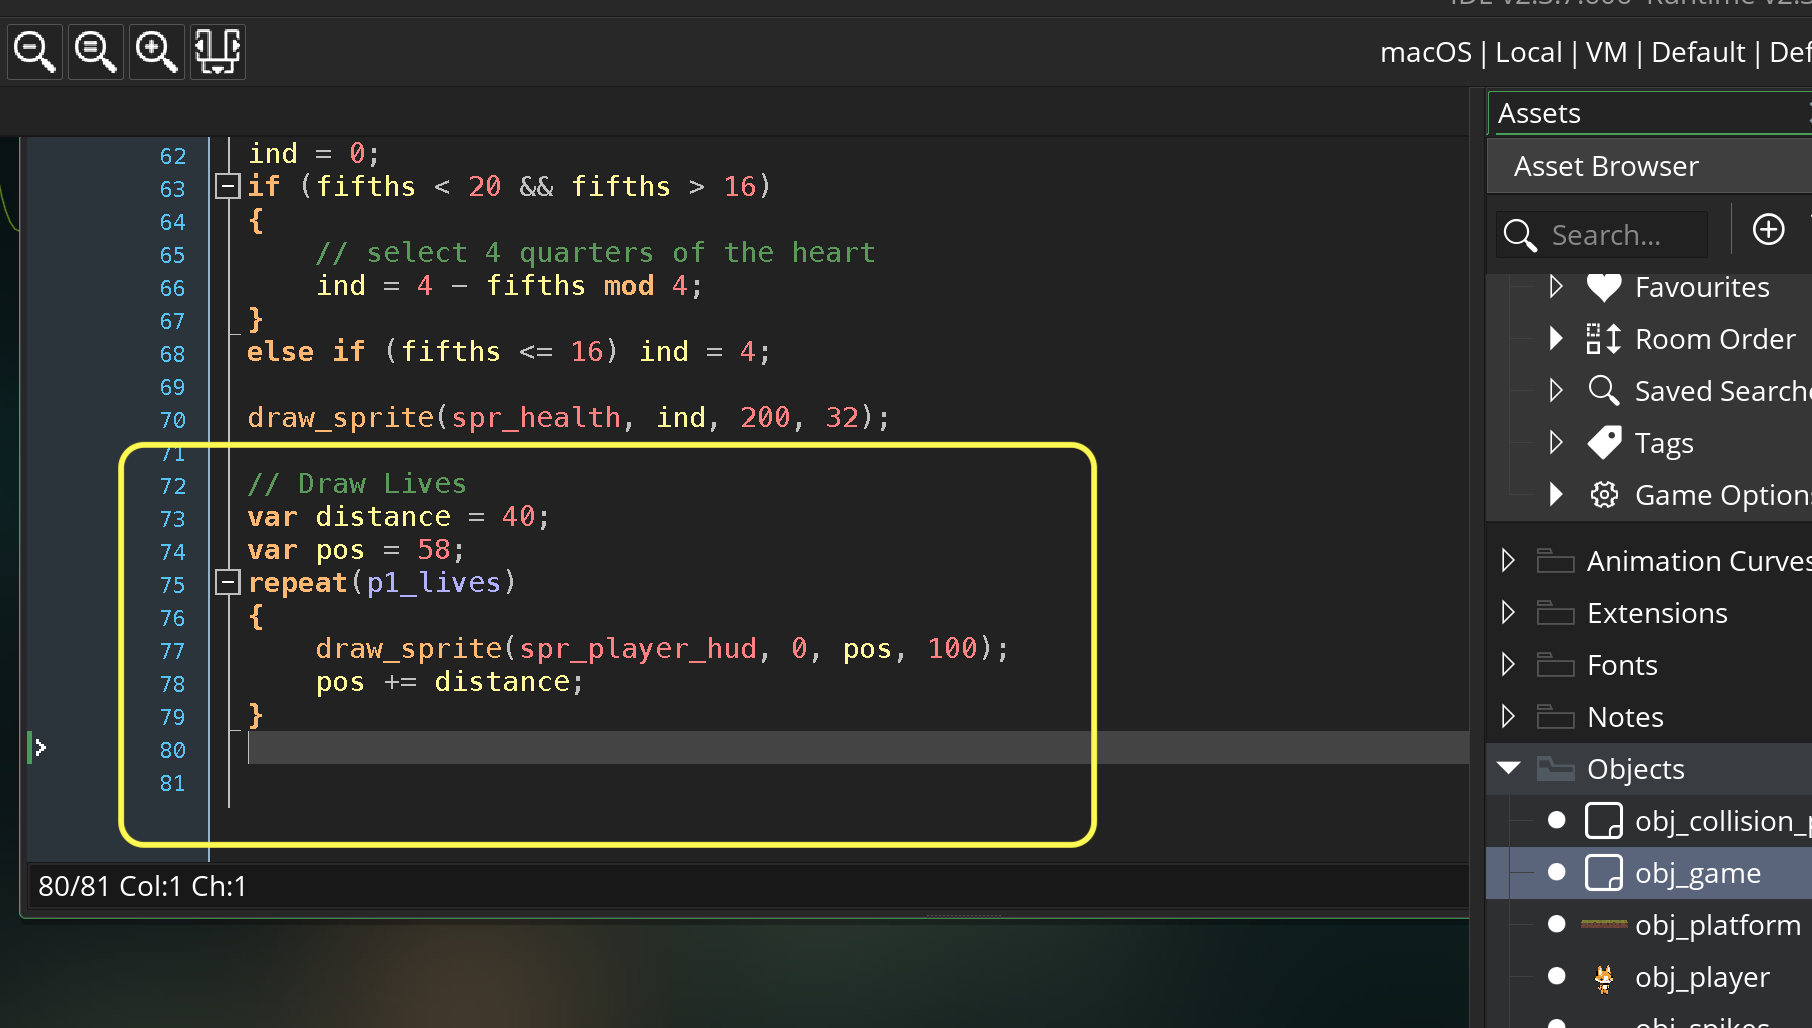
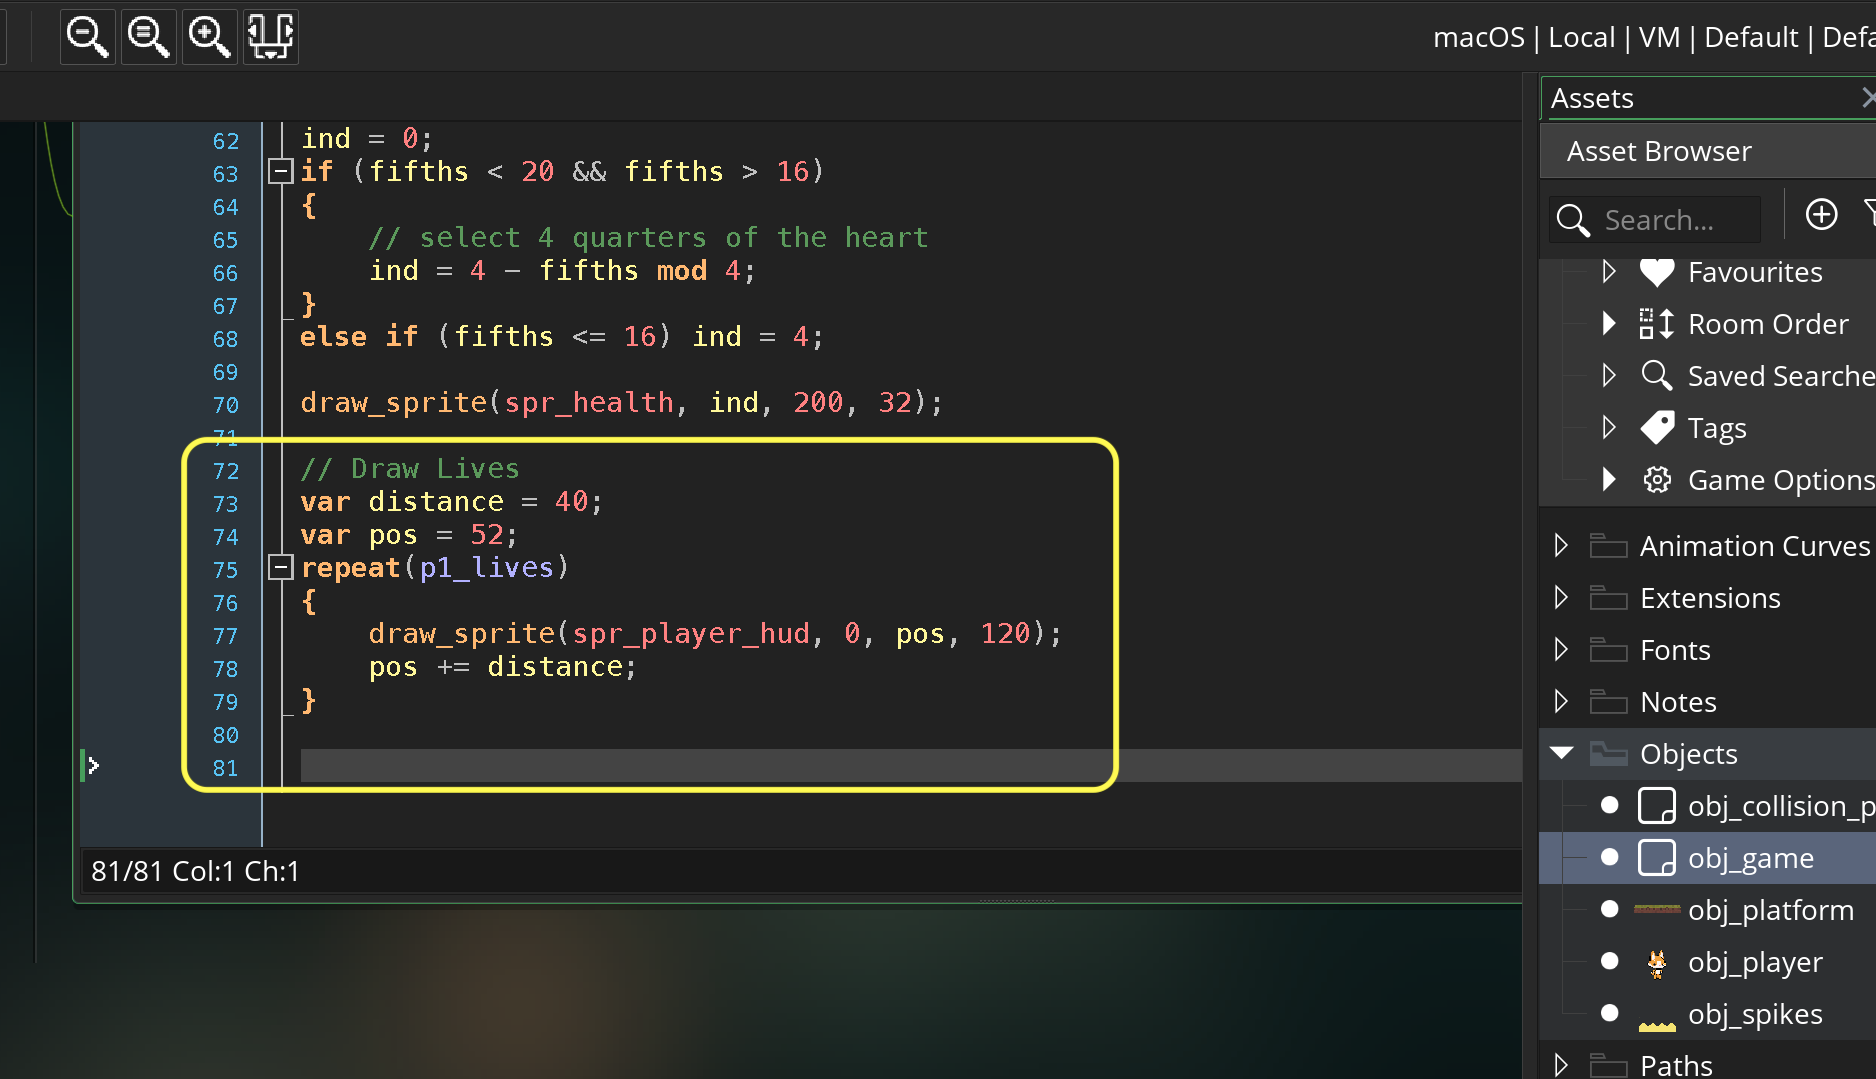
porting walk through

diff --git a/lives/README.md b/lives/README.md
@@ -55,20 +55,25 @@ Open up **obj_game**.  This object is best to hold variables for the entire game
 
 ##### `Step 6.`\|`SPCRK`| :small_orange_diamond: :small_blue_diamond:
 
-Now open up **obj_game | Draw GUI** and add to the bottom a loop that draws all the player sprites. 
+Now open up **obj_game | Draw GUI** and add to the bottom a loop that draws all the player sprites. We need a distance between sprites with a margin, so we will separate the player icon by 40 pixels.  We also need to increment our **x** position with that.  We will use the `draw_sprite(sprite, subimg, x, y)` to draw the player to the screen.
+
 ![alt_text](images/postionHud.png)
 
 <img src="https://via.placeholder.com/500x2/45D7CA/45D7CA" alt="drawing" height="2px" alt = ""/>
 
 ##### `Step 7.`\|`SPCRK`| :small_orange_diamond: :small_blue_diamond: :small_blue_diamond:
 
-![alt_text](images/.png)
+Now *press* the <kbd>Play</kbd> button in the top menu bar to launch the game. Now you should see 5 lives under the health!
+
+![lives in HUD](images/livesHud.png)
 
 <img src="https://via.placeholder.com/500x2/45D7CA/45D7CA" alt="drawing" height="2px" alt = ""/>
 
 ##### `Step 8.`\|`SPCRK`| :small_orange_diamond: :small_blue_diamond: :small_blue_diamond: :small_blue_diamond:
 
-![alt_text](images/.png)
+Lets run the death animation when the player loses all its health.  Open up **obj_player | Create** event and add `dead` to `player_state`.
+
+![add dead player state](images/deadState.png)
 
 <img src="https://via.placeholder.com/500x2/45D7CA/45D7CA" alt="drawing" height="2px" alt = ""/>
 
